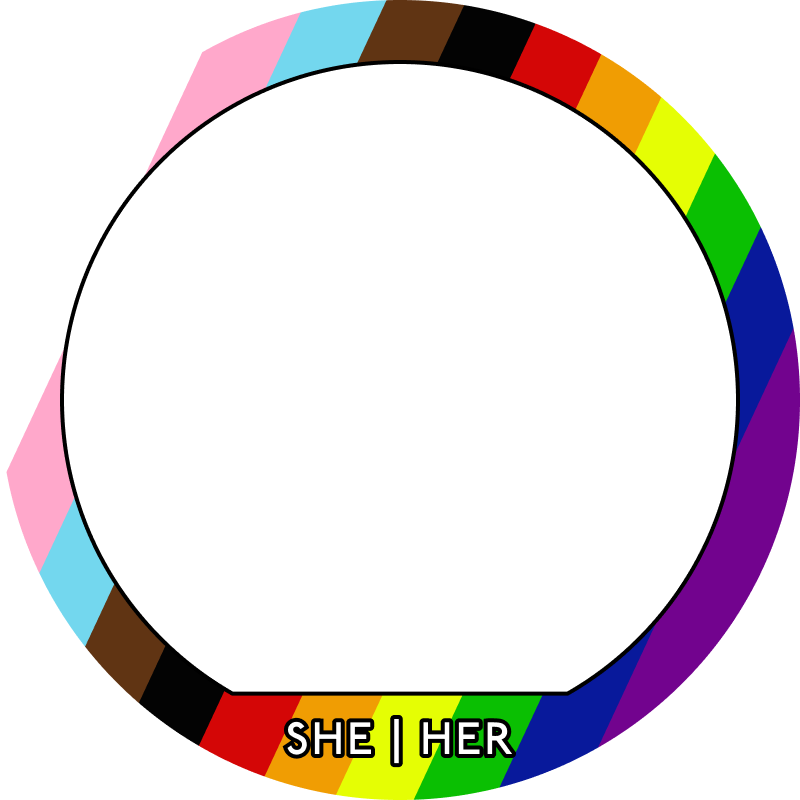
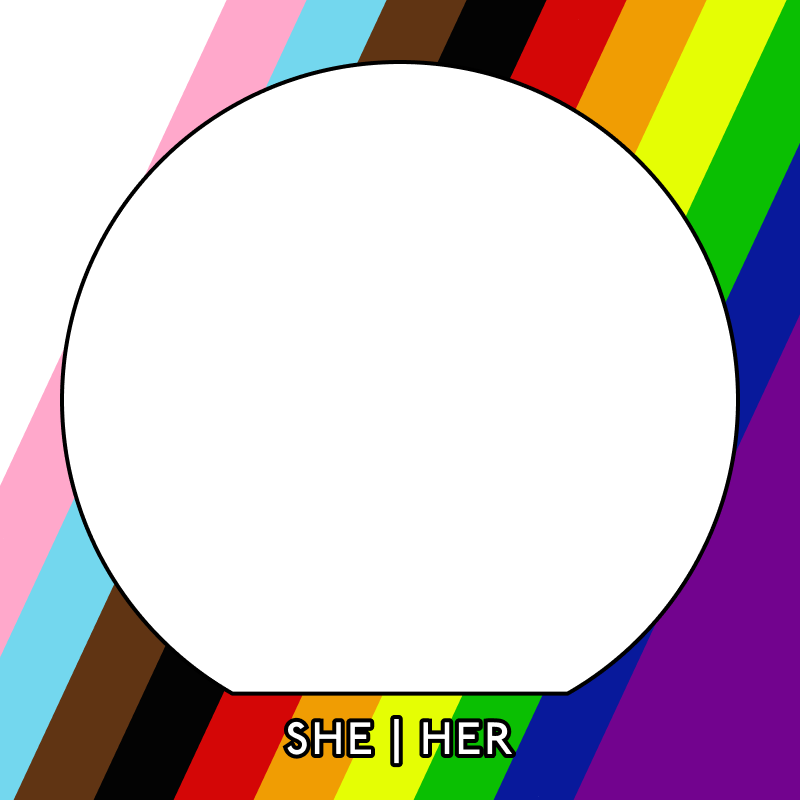
Fix

diff --git a/index.html b/index.html
@@ -120,6 +120,7 @@
 							"Pronouns: HE/SHE/THEY"
 						],
 						overlay: null,
+						overlayKey: -1,
 						result: "",
 						images_loaded: 0
 					}
@@ -137,6 +138,7 @@
 						tempOverlayImage.onload = this.tempImageLoaded;
 						tempOverlayImage.src = "frames/" + key + ".png";
 						this.overlay = tempOverlayImage;
+						this.overlayKey = key;
 					},
 					startUpload() {
 						this.$refs.imageUpload.click();
@@ -173,7 +175,17 @@
 					process() {
 						var canvas = this.$refs.canvas;
 						var context = canvas.getContext('2d');
-						context.drawImage(this.uploaded, 80, 80, 640, 640);
+						context.clearRect(0, 0, 800, 800);
+						
+						if (this.overlayKey > 2) {
+							var offset = 60;
+							var size = 680;
+						} else {
+							var offset = 80;
+							var size = 640;
+						}
+						
+						context.drawImage(this.uploaded, offset, offset, size, size);
 						context.drawImage(this.overlay, 0, 0, 800, 800);
 						
 						this.result = canvas.toDataURL('data/png');
